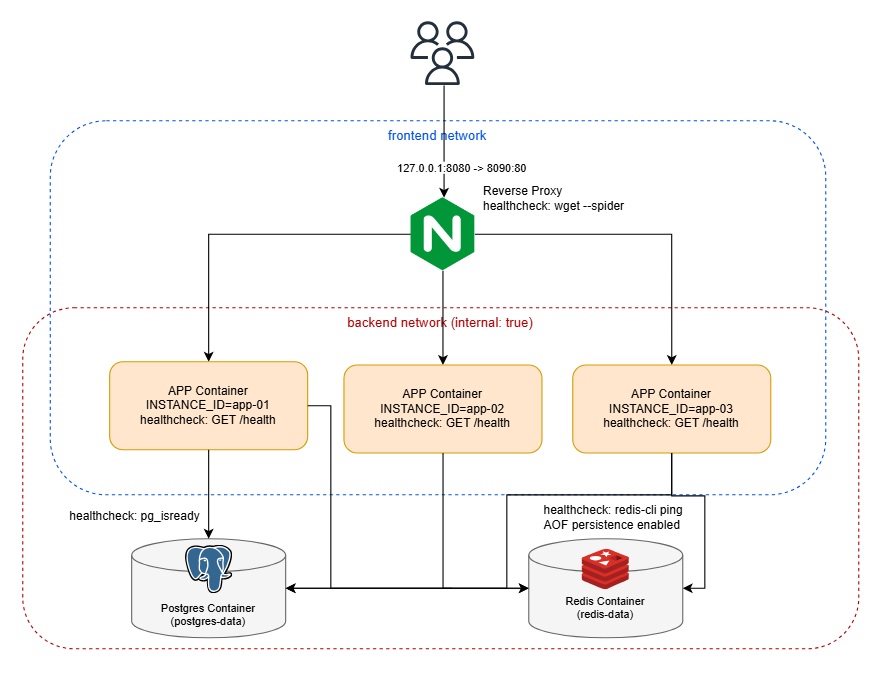
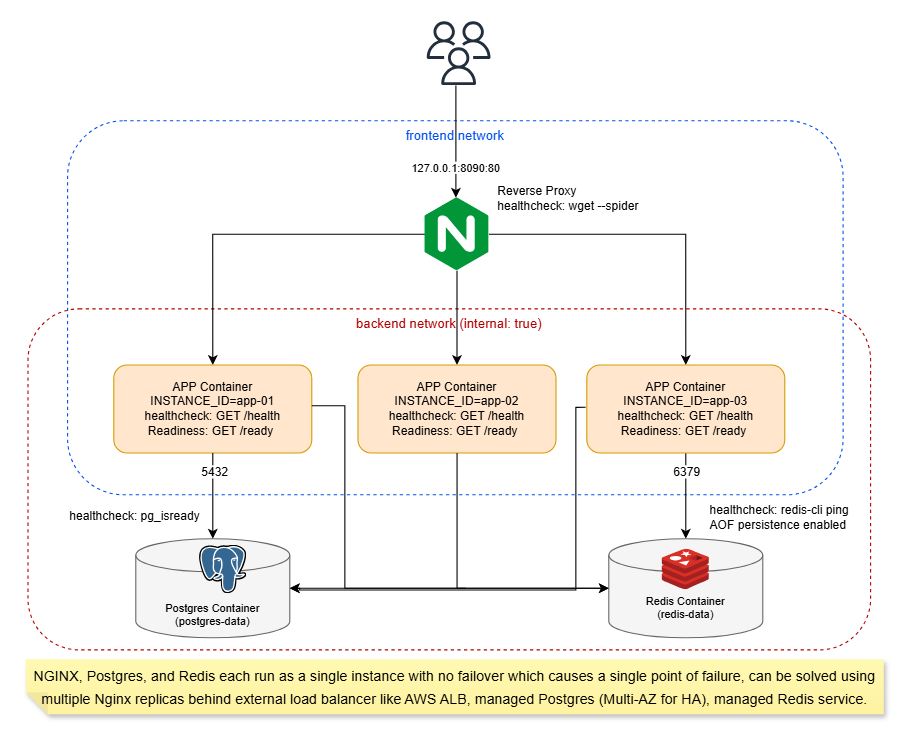
Update architecture diagram and README for final 3-instance apps

diff --git a/README.md b/README.md
@@ -10,6 +10,9 @@ It shipped broken; this repo is the investigation, the fix, and the tests provin
 > demonstrated in the video and landed as a documentation-only commit afterward (see
 > `docs/EVIDENCE_INDEX.md`).
 
+
+## Architecture Overview
+
 ![Architecture](assets/architecture.png)
 
 ## Setup
@@ -137,12 +140,12 @@ Full entries: [troubleshooting.md](troubleshooting.md).
 Full evidence: [log_analysis.md](log_analysis.md).
 
 **How do requests flow? Why these ports, networks and readiness checks?**  
-Client → NGINX (`:8080` on `frontend`) → round-robin to `app-01`/`app-02` (on both `frontend` and
-`backend` networks) → PostgreSQL/Redis (`backend`, `internal: true`). Only NGINX publishes a host port;
-Postgres/Redis have none. `backend` is isolated so NGINX has no network path to the database or
-cache even if compromised. `/health` checks the process only (fast, no dependency); `/ready`
-checks Postgres + Redis so the app is never marked ready before it can actually serve real
-requests — see [decisions.md #2](decisions.md#decision-2) and security_review.md #2/#3.
+Client → NGINX (`:8090` on `frontend`) → round-robin to `app-01`/`app-02`/`app-03` (on both `frontend`
+and `backend` networks) → PostgreSQL/Redis (`backend`, `internal: true`). Only NGINX publishes a
+host port; Postgres/Redis have none. `backend` is isolated so NGINX has no network path to the
+database or cache even if compromised. `/health` checks the process only (fast, no dependency);
+`/ready` checks Postgres + Redis so no instance is ever marked ready before it can actually serve
+real requests — see [decisions.md #2](decisions.md#decision-2) and security_review.md #2/#3.
 
 **Why these timeouts, retries, restart settings and resource limits?**  
 `proxy_next_upstream off` and `max_fails=0` are deliberate: they keep a backend failure visible
@@ -163,7 +166,9 @@ The four security jobs (`secret_scanning`, `sast_scan`, `sca_scan`,
 `container_security`) run in parallel and are deliberately non-blocking: both Trivy scans are set
 to `exit-code: '0'`, so they upload SARIF/SBOM findings to the Security tab but never fail the
 job even on a HIGH/CRITICAL result, by design. So green CI does **not** prove the app is free of
-security findings.
+security findings.  
+
+
 **Which single points of failure remain? How would you fix them in production?**  
 NGINX itself (a single proxy container), PostgreSQL (a single instance, no replica), and Redis
 (a single instance, no replica) are all SPOFs.   
